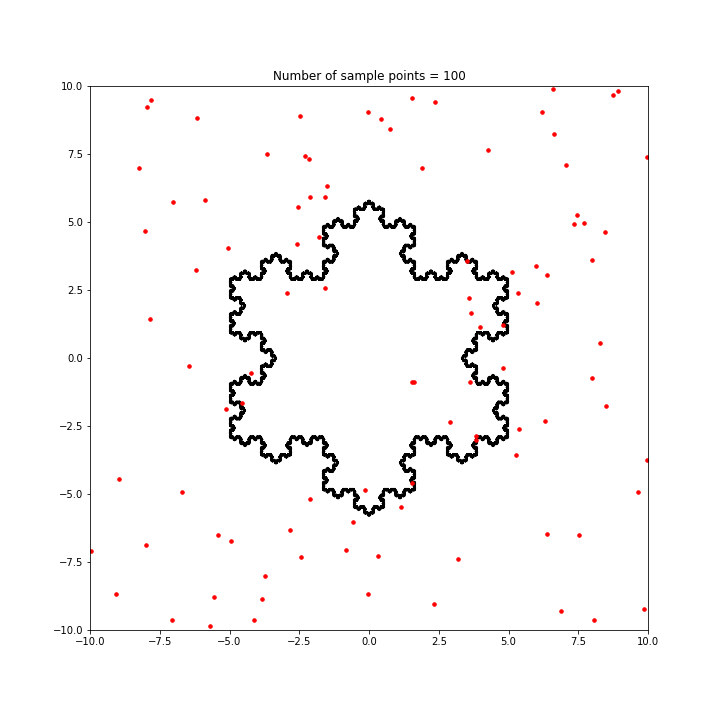
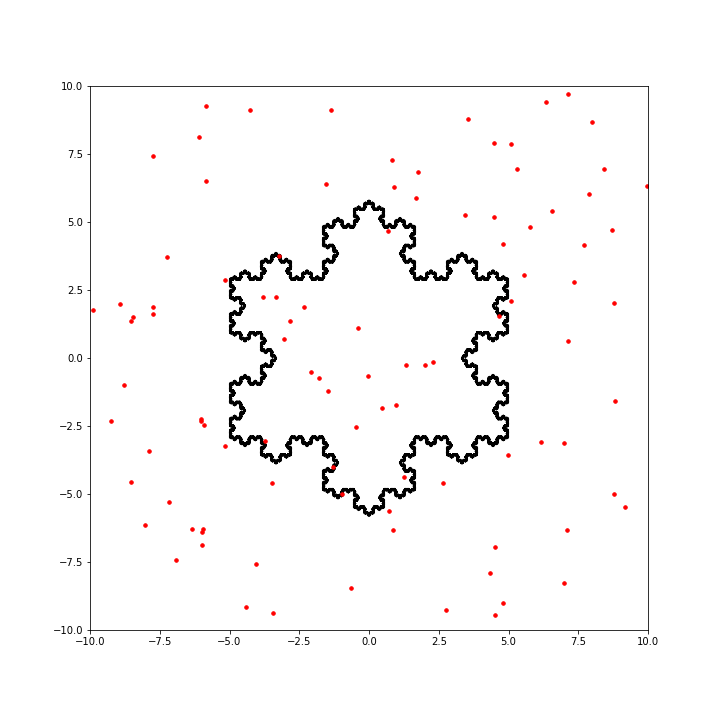
MCS

diff --git a/_posts/2019-10-15-MonteCarlo_Simulations.md b/_posts/2019-10-15-MonteCarlo_Simulations.md
@@ -12,14 +12,15 @@ comments: true
 
 ## Monte Carlo Simulation
 
-| N =10  | N=100  |
+| --  | --  |
 | ![](../imgs/Circle_10.png)  | ![](../imgs/Circle_100.png)  |
+| ![](../imgs/Circle_1000.png)  | ![](../imgs/Circle_10000.png) |
+
+
+|-- | -- |
+| ![](../imgs/Snowflake_1000.png)  | ![](../imgs/Snowflake_10000.png) |
 | ![](../imgs/Snowflake_10.png)  | ![](../imgs/Snowflake_100.png)  |
 
-
-| N=1000   | N=10000 |
-| ![](../imgs/Circle_1000.png)  | ![](../imgs/Circle_10000.png) |
-| ![](../imgs/Snowflake_1000.png)  | ![](../imgs/Snowflake_10000.png) |
 
 
 *In progress*
